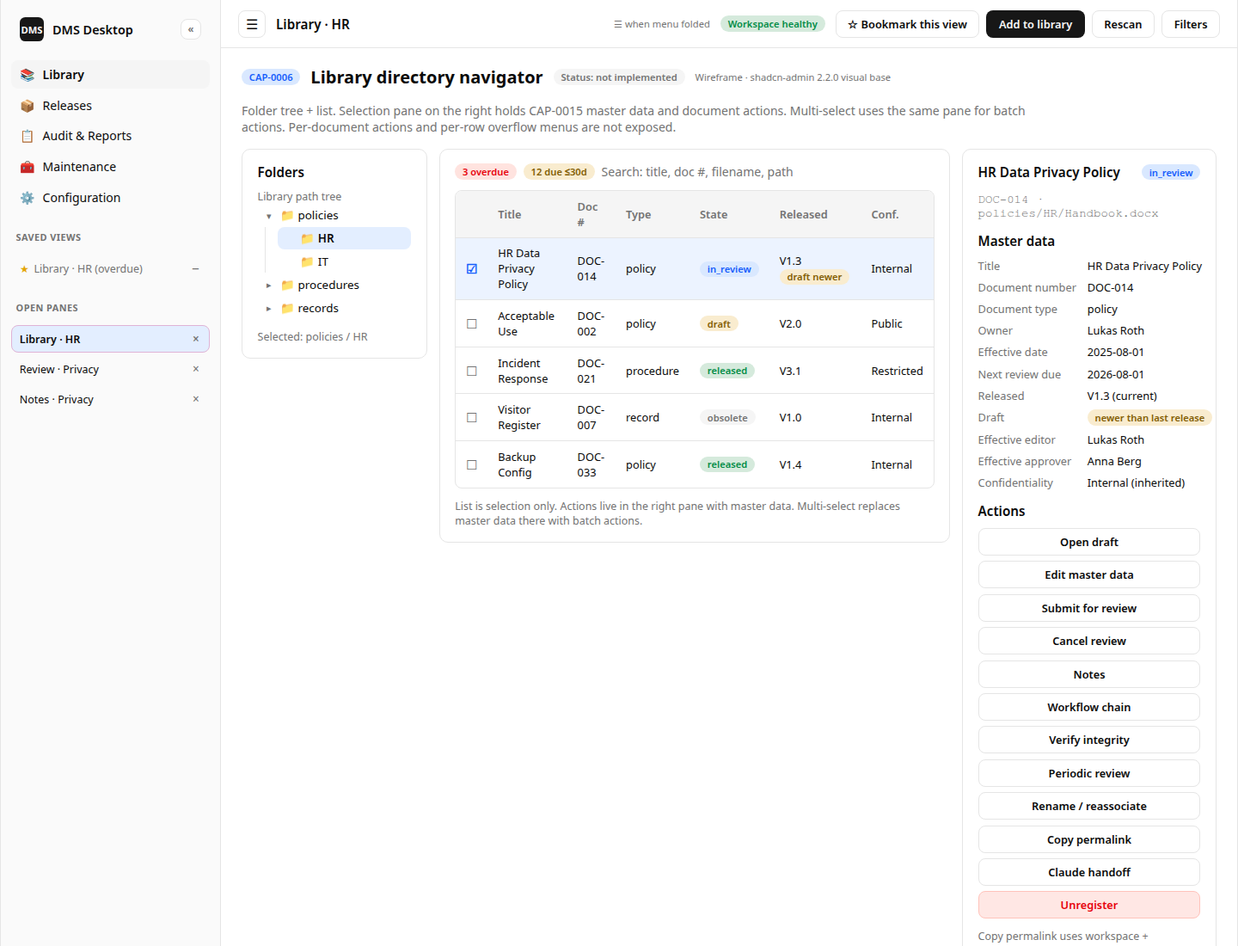
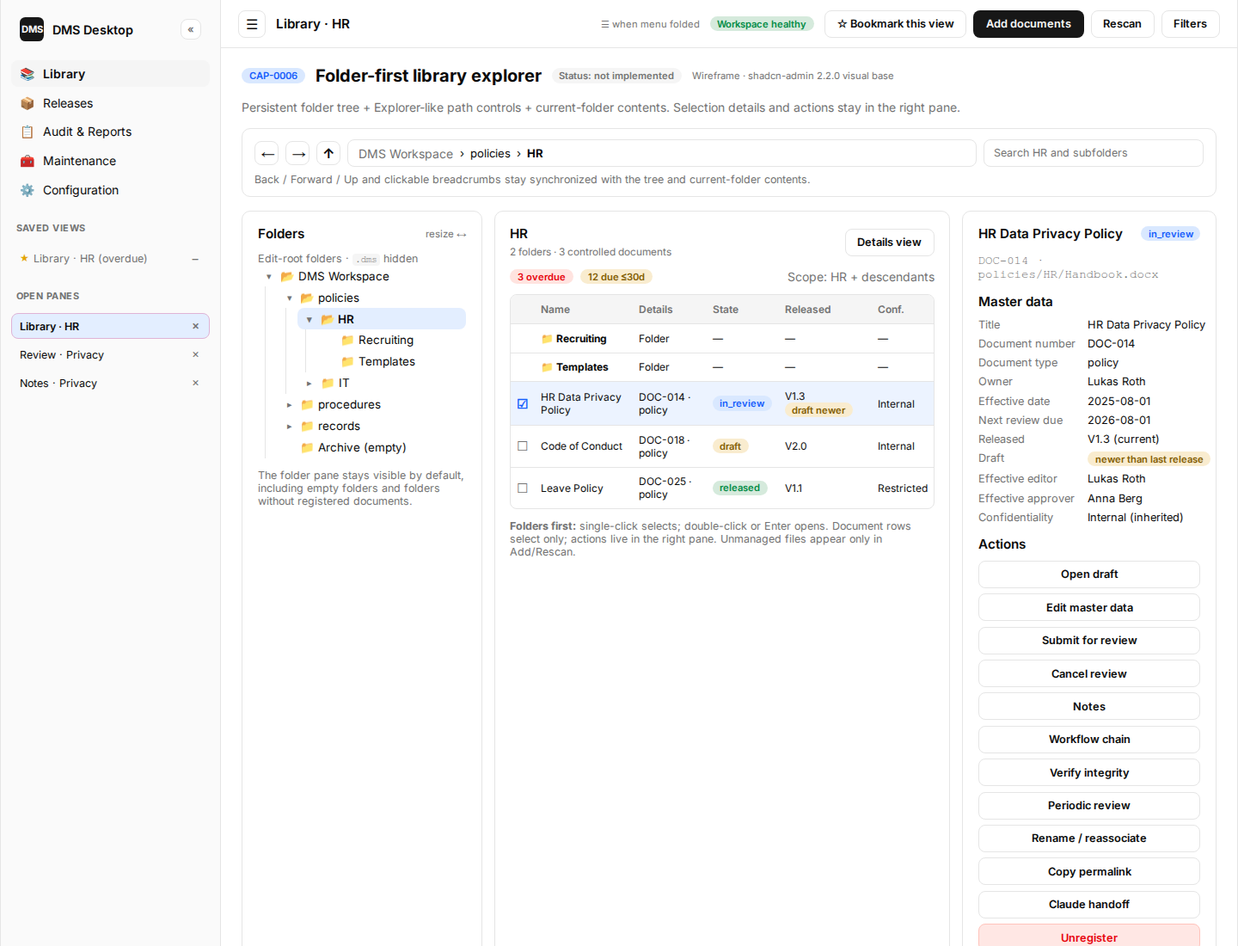
docs(product): make library navigation folder-first

diff --git a/docs/product/wireframes/html/CAP-0006-library-explorer.html b/docs/product/wireframes/html/CAP-0006-library-explorer.html
@@ -3,7 +3,7 @@
 <head>
 <meta charset="utf-8"/>
 <meta name="viewport" content="width=device-width, initial-scale=1"/>
-<title>CAP-0006 — Library directory navigator · DMS Desktop</title>
+<title>CAP-0006 — Folder-first library explorer · DMS Desktop</title>
 <link rel="preconnect" href="https://fonts.googleapis.com"/>
 <link rel="preconnect" href="https://fonts.gstatic.com" crossorigin/>
 <link href="https://fonts.googleapis.com/css2?family=Inter:wght@400;500;600;700&display=swap" rel="stylesheet"/>
@@ -208,101 +208,124 @@ tr:last-child td { border-bottom: 0; }
       <div class="grow"></div>
       <span class="ham-note">☰ when menu folded</span>
       <span class="badge ok">Workspace healthy</span>
-      <div class="header-actions"><button class="btn outline bookmark-btn" title="Bookmark this view" aria-pressed="false">☆ Bookmark this view</button><button class="btn">Add to library</button><button class="btn outline">Rescan</button><button class="btn outline">Filters</button></div>
+      <div class="header-actions"><button class="btn outline bookmark-btn" title="Bookmark this view" aria-pressed="false">☆ Bookmark this view</button><button class="btn">Add documents</button><button class="btn outline">Rescan</button><button class="btn outline">Filters</button></div>
     </header>
     <main class="content">
       <div class="cap-head">
         <span class="badge info">CAP-0006</span>
-        <h2>Library directory navigator</h2>
+        <h2>Folder-first library explorer</h2>
         <span class="badge muted">Status: not implemented</span>
         <span class="wire-meta">Wireframe · shadcn-admin 2.2.0 visual base</span>
       </div>
-      <p class="subtitle">Folder tree + list. Selection pane on the right holds CAP-0015 master data and document actions. Multi-select uses the same pane for batch actions. Per-document actions and per-row overflow menus are not exposed.</p>
+      <p class="subtitle">Persistent folder tree + Explorer-like path controls + current-folder contents. Selection details and actions stay in the right pane.</p>
       
-      <div class="grid-explorer-detail">
+      <style>
+        .app[data-cap="CAP-0006"] .list-card th,
+        .app[data-cap="CAP-0006"] .list-card td { padding: 0.55rem 0.45rem; font-size: 0.75rem; }
+      </style>
+      <section class="card" style="padding:0.75rem 0.9rem">
+        <div class="row gap-2">
+          <button class="icon-btn" title="Back">←</button>
+          <button class="icon-btn" title="Forward">→</button>
+          <button class="icon-btn" title="Up one folder">↑</button>
+          <div class="row" style="height:2rem;min-width:0;flex:1;border:1px solid var(--input);border-radius:calc(var(--radius) - 2px);padding:0 0.75rem;font-size:0.82rem;gap:0.45rem">
+            <span class="muted">DMS Workspace</span><span>›</span><span>policies</span><span>›</span><strong>HR</strong>
+          </div>
+          <div style="height:2rem;width:16rem;border:1px solid var(--input);border-radius:calc(var(--radius) - 2px);padding:0.42rem 0.7rem;font-size:0.78rem;color:var(--muted-foreground)">Search HR and subfolders</div>
+        </div>
+        <p class="hint" style="margin-top:0.45rem">Back / Forward / Up and clickable breadcrumbs stay synchronized with the tree and current-folder contents.</p>
+      </section>
+      <div class="grid-explorer-detail" style="grid-template-columns:17.5rem minmax(0,1fr) 18.5rem;align-items:stretch">
         <aside class="card tree">
-          <h3 class="card-title">Folders</h3>
-          <p class="hint" style="margin-top:0">Library path tree</p>
+          <div class="row between mb">
+            <h3 class="card-title" style="margin:0">Folders</h3>
+            <span class="muted" style="font-size:0.72rem">resize ↔</span>
+          </div>
+          <p class="hint" style="margin-top:0">Edit-root folders · <code>.dms</code> hidden</p>
           <ul class="tree-root">
             <li>
-              <div class="tree-node"><span class="tree-twisty">▾</span><span class="tree-label">📁 policies</span></div>
+              <div class="tree-node"><span class="tree-twisty">▾</span><span class="tree-label">📂 DMS Workspace</span></div>
               <ul>
                 <li>
-                  <div class="tree-node active"><span class="tree-twisty empty">▸</span><span class="tree-label">📁 HR</span></div>
+                  <div class="tree-node"><span class="tree-twisty">▾</span><span class="tree-label">📂 policies</span></div>
+                  <ul>
+                    <li>
+                      <div class="tree-node active"><span class="tree-twisty">▾</span><span class="tree-label">📂 HR</span></div>
+                      <ul>
+                        <li><div class="tree-node"><span class="tree-twisty empty">▸</span><span class="tree-label">📁 Recruiting</span></div></li>
+                        <li><div class="tree-node"><span class="tree-twisty empty">▸</span><span class="tree-label">📁 Templates</span></div></li>
+                      </ul>
+                    </li>
+                    <li>
+                      <div class="tree-node"><span class="tree-twisty">▸</span><span class="tree-label">📁 IT</span></div>
+                    </li>
+                  </ul>
                 </li>
                 <li>
-                  <div class="tree-node"><span class="tree-twisty empty">▸</span><span class="tree-label">📁 IT</span></div>
+                  <div class="tree-node"><span class="tree-twisty">▸</span><span class="tree-label">📁 procedures</span></div>
+                </li>
+                <li>
+                  <div class="tree-node"><span class="tree-twisty">▸</span><span class="tree-label">📁 records</span></div>
+                </li>
+                <li>
+                  <div class="tree-node"><span class="tree-twisty empty">▸</span><span class="tree-label">📁 Archive (empty)</span></div>
                 </li>
               </ul>
             </li>
-            <li>
-              <div class="tree-node"><span class="tree-twisty">▸</span><span class="tree-label">📁 procedures</span></div>
-            </li>
-            <li>
-              <div class="tree-node"><span class="tree-twisty">▸</span><span class="tree-label">📁 records</span></div>
-            </li>
           </ul>
-          <p class="hint">Selected: policies / HR</p>
+          <p class="hint">The folder pane stays visible by default, including empty folders and folders without registered documents.</p>
         </aside>
         <section class="card list-card">
-          <div class="row gap-2 mb">
+          <div class="row between mb">
+            <div>
+              <h3 class="card-title" style="margin:0">HR</h3>
+              <span class="muted" style="font-size:0.74rem">2 folders · 3 controlled documents</span>
+            </div>
+            <button class="btn outline">Details view</button>
+          </div>
+          <div class="row gap-2 mb" style="flex-wrap:wrap">
             <span class="badge danger">3 overdue</span>
             <span class="badge warn">12 due ≤30d</span>
-            <span class="muted grow">Search: title, doc #, filename, path</span>
+            <span class="muted grow" style="text-align:right">Scope: HR + descendants</span>
           </div>
           <div class="table-wrap"><table>
             <thead><tr>
-              <th></th><th>Title</th><th>Doc #</th><th>Type</th><th>State</th><th>Released</th><th>Conf.</th>
+              <th></th><th>Name</th><th>Details</th><th>State</th><th>Released</th><th>Conf.</th>
             </tr></thead>
             <tbody>
+              <tr>
+                <td></td><td><strong>📁 Recruiting</strong></td><td>Folder</td><td>—</td><td>—</td><td>—</td>
+              </tr>
+              <tr>
+                <td></td><td><strong>📁 Templates</strong></td><td>Folder</td><td>—</td><td>—</td><td>—</td>
+              </tr>
               <tr class="selected">
                 <td><span class="check on">☑</span></td>
                 <td>HR Data Privacy Policy</td>
-                <td>DOC-014</td>
-                <td>policy</td>
+                <td>DOC-014 · policy</td>
                 <td><span class="badge info">in_review</span></td>
                 <td>V1.3 <span class="badge warn">draft newer</span></td>
                 <td>Internal</td>
               </tr>
               <tr>
                 <td><span class="check">☐</span></td>
-                <td>Acceptable Use</td>
-                <td>DOC-002</td>
-                <td>policy</td>
+                <td>Code of Conduct</td>
+                <td>DOC-018 · policy</td>
                 <td><span class="badge warn">draft</span></td>
                 <td>V2.0</td>
-                <td>Public</td>
+                <td>Internal</td>
               </tr>
               <tr>
                 <td><span class="check">☐</span></td>
-                <td>Incident Response</td>
-                <td>DOC-021</td>
-                <td>procedure</td>
+                <td>Leave Policy</td>
+                <td>DOC-025 · policy</td>
                 <td><span class="badge ok">released</span></td>
-                <td>V3.1</td>
+                <td>V1.1</td>
                 <td>Restricted</td>
-              </tr>
-              <tr>
-                <td><span class="check">☐</span></td>
-                <td>Visitor Register</td>
-                <td>DOC-007</td>
-                <td>record</td>
-                <td><span class="badge muted">obsolete</span></td>
-                <td>V1.0</td>
-                <td>Internal</td>
-              </tr>
-              <tr>
-                <td><span class="check">☐</span></td>
-                <td>Backup Config</td>
-                <td>DOC-033</td>
-                <td>policy</td>
-                <td><span class="badge ok">released</span></td>
-                <td>V1.4</td>
-                <td>Internal</td>
               </tr>
             </tbody>
           </table></div>
-          <p class="hint">List is selection only. Actions live in the right pane with master data. Multi-select replaces master data there with batch actions.</p>
+          <p class="hint"><strong>Folders first:</strong> single-click selects; double-click or Enter opens. Document rows select only; actions live in the right pane. Unmanaged files appear only in Add/Rescan.</p>
         </section>
         <aside class="card detail-pane">
           <div class="row between mb">
@@ -337,7 +360,7 @@ tr:last-child td { border-bottom: 0; }
             <p class="muted" style="margin:0 0 0.5rem;font-size:0.85rem">When two or more rows are checked, the right pane switches to batch mode:</p>
             <ul class="list">
               <li>HR Data Privacy Policy (DOC-014)</li>
-              <li>Acceptable Use (DOC-002)</li>
+              <li>Code of Conduct (DOC-018)</li>
             </ul>
           </div>
           <div class="stack-btns">

diff --git a/docs/product/wireframes/index.html b/docs/product/wireframes/index.html
@@ -19,7 +19,7 @@ a{color:#2563eb}
 <tr><td>CAP-0003</td><td>Document notes</td><td><a href="./html/CAP-0003-document-notes.html">CAP-0003-document-notes.html</a></td><td><a href="./exports/CAP-0003-document-notes.png">CAP-0003-document-notes.png</a></td></tr>
 <tr><td>CAP-0004</td><td>Verify integrity</td><td><a href="./html/CAP-0004-release-integrity.html">CAP-0004-release-integrity.html</a></td><td><a href="./exports/CAP-0004-release-integrity.png">CAP-0004-release-integrity.png</a></td></tr>
 <tr><td>CAP-0005</td><td>Desktop shell overview</td><td><a href="./html/CAP-0005-desktop-shell.html">CAP-0005-desktop-shell.html</a></td><td><a href="./exports/CAP-0005-desktop-shell.png">CAP-0005-desktop-shell.png</a></td></tr>
-<tr><td>CAP-0006</td><td>Library directory navigator</td><td><a href="./html/CAP-0006-library-explorer.html">CAP-0006-library-explorer.html</a></td><td><a href="./exports/CAP-0006-library-explorer.png">CAP-0006-library-explorer.png</a></td></tr>
+<tr><td>CAP-0006</td><td>Folder-first library explorer</td><td><a href="./html/CAP-0006-library-explorer.html">CAP-0006-library-explorer.html</a></td><td><a href="./exports/CAP-0006-library-explorer.png">CAP-0006-library-explorer.png</a></td></tr>
 <tr><td>CAP-0007</td><td>Office → PDF export</td><td><a href="./html/CAP-0007-office-pdf-export.html">CAP-0007-office-pdf-export.html</a></td><td><a href="./exports/CAP-0007-office-pdf-export.png">CAP-0007-office-pdf-export.png</a></td></tr>
 <tr><td>CAP-0008</td><td>Confidentiality policies</td><td><a href="./html/CAP-0008-confidentiality-classification.html">CAP-0008-confidentiality-classification.html</a></td><td><a href="./exports/CAP-0008-confidentiality-classification.png">CAP-0008-confidentiality-classification.png</a></td></tr>
 <tr><td>CAP-0009</td><td>Open draft in Office</td><td><a href="./html/CAP-0009-release-editor.html">CAP-0009-release-editor.html</a></td><td><a href="./exports/CAP-0009-release-editor.png">CAP-0009-release-editor.png</a></td></tr>

diff --git a/docs/changes/active/CHG-0001-tauri-local-dms-bootstrap.md b/docs/changes/active/CHG-0001-tauri-local-dms-bootstrap.md
@@ -4,7 +4,7 @@
 | --- | --- |
 | ID | CHG-0001 |
 | Status | in-progress |
-| External request | Direct operator request: develop a https://tauri.app/ application primarily for Windows for document version control to comply with ISO 27001 requirements. Drafts are original Microsoft Office tools; final approved and released documents are PDFs. No database; operator maintains release and approval process. Document details stored in hidden local directories per folder (e.g. `.dms`). Git-based VCS not mandatory. User can make notes. Released PDFs are checksummed. Refinements: (1) file explorer of controlled library with add/remove; library members are versioned as `*_vMAJOR.MINOR.pdf` on release while Office draft remains editable; (2) persist edit root and publish root; reconstruct mirrored directory tree under publish root on release; (3) PDF export and file versioning are performed by the application using preinstalled Microsoft Office; (4) macOS support is required in addition to Windows; (5) approval notification email contains a URI that opens the installed app to the requested document; (6) responsible editor and approver are assignable at root, folder, subfolder, or individual-document level with inheritance; (7) the person who requested approval receives notification of the recorded approval outcome; (8) distinguish automatic, current-session activity panes from explicit operator bookmarks and make their placement, creation, persistence, restoration, and removal clear in the CAPs and wireframes. |
+| External request | Direct operator request: develop a https://tauri.app/ application primarily for Windows for document version control to comply with ISO 27001 requirements. Drafts are original Microsoft Office tools; final approved and released documents are PDFs. No database; operator maintains release and approval process. Document details stored in hidden local directories per folder (e.g. `.dms`). Git-based VCS not mandatory. User can make notes. Released PDFs are checksummed. Refinements: (1) file explorer of controlled library with add/remove; library members are versioned as `*_vMAJOR.MINOR.pdf` on release while Office draft remains editable; (2) persist edit root and publish root; reconstruct mirrored directory tree under publish root on release; (3) PDF export and file versioning are performed by the application using preinstalled Microsoft Office; (4) macOS support is required in addition to Windows; (5) approval notification email contains a URI that opens the installed app to the requested document; (6) responsible editor and approver are assignable at root, folder, subfolder, or individual-document level with inheritance; (7) the person who requested approval receives notification of the recorded approval outcome; (8) distinguish automatic, current-session activity panes from explicit operator bookmarks and make their placement, creation, persistence, restoration, and removal clear in the CAPs and wireframes; (9) "working with folders would be the more dominent part of using DMS Desktop so the folder structure should become more present in the ui. also navigating through the folders in the library view should be more windows explorer like for convinience of the user". |
 | Affected CAPs | CAP-0001 … CAP-0020 |
 | Decision records | ADR-0001 … ADR-0020 in `docs/design-decisions.md` |
 
@@ -17,8 +17,10 @@ macOS** that:
 - Provides a foldable left menu (hamburger when collapsed), session-only
   open-activity panes/tabs as quicklinks in the left chrome, and explicit
   per-user saved views
-- Shows a library directory navigator (folder tree, metadata list, selection
-  pane with CAP-0015 master data and document/batch actions); add/remove
+- Shows a folder-dominant, Windows Explorer-like Library workspace with a
+  persistent edit-root-relative tree, Back/Forward/Up + clickable breadcrumbs,
+  current-folder child folders and controlled-document metadata, and a right
+  selection pane with CAP-0015 master data and document/batch actions; add/remove
   documents under control
 - Runs operator-driven approval and release
 - Sends approver review-request email and requester decision-outcome email
@@ -67,10 +69,10 @@ macOS** that:
 
 | # | Phase | Status | Verification gate |
 | --- | --- | --- | --- |
-| 0 | Product records and architecture bootstrap | done (docs tree; release version policy, approval, notification, confidentiality, workflow-role routing, maintenance, periodic review, optional Claude handoff, foldable shell chrome, session activity tabs, saved views, stable document permalinks, Win+macOS recorded) | CAP/CHG/ADR files exist; indexes list CAP-0001…0020; no CAP claims implemented runtime |
+| 0 | Product records and architecture bootstrap | done (docs tree; release version policy, approval, notification, confidentiality, workflow-role routing, maintenance, periodic review, optional Claude handoff, foldable shell chrome, session activity tabs, saved views, folder-dominant Explorer-like Library navigation, stable document permalinks, Win+macOS recorded) | CAP/CHG/ADR files exist; indexes list CAP-0001…0020; no CAP claims implemented runtime |
 | 1 | Tauri 2 app skeleton (Windows + macOS) + DOX for source tree | pending | Dev app launches on Windows and macOS; README run steps for both; foldable left menu + hamburger + session-only open-activity tabs with visible current state; explicit saved-view bookmark persists in OS user config and restores as a fresh activity |
 | 2 | `.dms` store + dual-root open/configure + confidentiality and workflow-role policies | pending | Tests: persist/reload edit+publish roots, stable workspace ID, and schema version; safe older-schema migration/newer-schema read-only; create/replace a direct folder policy, remove a non-root policy, refuse root-policy removal, and recompute nearest inherited class; inherit each workflow role independently; init `.dms` only on confirm |
-| 3 | Library directory navigator + add/unregister/reassociate + selection pane | pending | Tests: add under edit root; reject outside path; unregister preserves history; ambiguous move is never auto-linked; search/filter controlled set; single selection shows CAP-0015 master data + document actions in the right pane with matching title; multi-select shows only multi-applicable actions in the same pane; a saved library view restores folder/filter/sort and a single-document stable ID but never batch selection; copy permalink uses workspace+document IDs only and never changes saved views; selection opens/focuses an activity tab |
+| 3 | Folder-first Library explorer + add/unregister/reassociate + selection pane | pending | Tests: folder pane is visible by default and includes empty edit-root folders while hiding `.dms`; Back/Forward/Up, breadcrumb, tree, and immediate-child contents stay synchronized; folder navigation reuses one Library activity; add under edit root; reject outside path; unregister preserves history; ambiguous move is never auto-linked; current-folder and Entire-library search/filter scopes return controlled documents with paths; single selection shows CAP-0015 master data + document actions in the right pane with matching title; multi-select shows only multi-applicable actions in the same pane; a saved library view restores folder/filter/sort and a single-document stable ID but never batch selection; copy permalink uses workspace+document IDs only and never changes saved views |
 | 4 | Lifecycle + approval notification + version assign + tree mirror | pending | Tests: request requires summary, requester, change class, effective approver, and transport success; CAP-0020 deep link resolves only an accessible registered workspace to the intended review request and still resolves after rename/version bump; each decision notifies the snapshotted requester, with failure retryable and non-reverting; approver-policy change invalidates an open review; cosmetic→minor, substantive/uncertain→major; comments/event hash persist; metadata change invalidates approval; first version V1.0; refuse overwrite |
 | 5 | Office-driven PDF export on release (Win + macOS adapters) | pending | Tests/integration: export via installed Office (or test double) to the versioned, classified path on each OS; snapshot the effective type ID into the filename; failure rolls back version success |
 | 6 | Notes on documents | pending | Tests: note CRUD persistence across restart |

diff --git a/docs/product/capabilities/CAP-0006-library-explorer.md b/docs/product/capabilities/CAP-0006-library-explorer.md
@@ -1,4 +1,4 @@
-# CAP-0006 — Controlled library directory navigator
+# CAP-0006 — Folder-first controlled library explorer
 
 | Field | Value |
 | --- | --- |
@@ -10,14 +10,30 @@
 
 When implemented, the following must hold:
 
-1. The primary library surface is a **directory navigator** over documents
-   currently under DMS control (the library), not an unmanaged dump of the
-   entire disk and not a standalone multi-page “file manager app.”
-2. Navigation is folder-first: a **relative folder tree** (nested expand/collapse
-   of library paths under the edit root — not a flat path list) plus a document
-   list for the current folder and active filters. Breadcrumbs or equivalent
-   show the current relative path. Navigating alone does not save this state;
-   the operator must use CAP-0005's explicit bookmark control.
+1. The primary library surface is a **folder-dominant workspace** over the
+   accessible directory structure below the edit root and the documents under
+   DMS control. It is not an unmanaged dump of the entire disk and not a
+   standalone multi-page file-manager application.
+2. Folder navigation uses familiar **Windows File Explorer-like conventions**
+   without copying the OS file manager wholesale:
+   - The default Library layout has three full-height panes: a persistent,
+     resizable **folder tree** on the left, current-folder contents in the
+     centre, and the selection/details pane on the right. The folder tree is a
+     primary navigation surface, not a compact filter card beside a
+     document-dominant table.
+   - The tree shows accessible folders below the edit root, including empty
+     folders and folders without registered documents. `<edit-root>/.dms` is
+     never shown. Unmanaged files remain hidden outside Add/Rescan flows.
+   - A current-folder toolbar exposes **Back**, **Forward**, and **Up** controls
+     plus a clickable breadcrumb rooted at the workspace/edit-root display
+     name. Up is unavailable at the root. Tree selection, breadcrumb, current
+     folder heading, and centre contents stay synchronized.
+   - The centre pane lists immediate child folders before controlled documents
+     directly in the current folder. Single-click selects a folder row;
+     double-click or Enter opens it. Selecting a tree node or breadcrumb segment
+     opens that folder directly.
+   - Back/Forward history is session-only. Navigating alone does not create a
+     saved view; the operator must use CAP-0005's explicit bookmark control.
 3. Operator can **add** a Microsoft Office file that lives under the edit root
    into the library. Add fails if the path is outside the edit root or already
    registered.
@@ -26,13 +42,13 @@ When implemented, the following must hold:
    master data, notes, workflow/release history, and checksums in read-only
    history; it never deletes the Office file or a published PDF. Re-registering
    that record associates a confirmed in-root draft path with the same ID.
-5. The list surfaces enough **row metadata** to scan the controlled set without
-   leaving the navigator: lifecycle state, latest released version label, title,
-   document number (when set), document type, owner, effective confidentiality,
-   next review due with overdue highlight, and a **draft newer than last
-   release** indicator when known (CAP-0015). The list is for navigation and
-   selection only — it does not host per-row action menus (no per-row
-   hamburger / overflow menu).
+5. Controlled-document rows surface enough **metadata** to scan the current
+   folder without leaving the explorer: lifecycle state, latest released
+   version label, title, document number (when set), document type, owner,
+   effective confidentiality, next review due with overdue highlight, and a
+   **draft newer than last release** indicator when known (CAP-0015). Document
+   rows are for selection only — they do not host per-row action menus (no
+   per-row hamburger / overflow menu). Folder rows navigate as defined above.
 6. **Selecting exactly one document** keeps the operator on the same page and
    shows an **on-page selection pane** (right column) that combines:
    - the selected document’s **title** (same string as the list row title),
@@ -72,13 +88,15 @@ When implemented, the following must hold:
    not exposed as batch actions — "Send reminder" is a per-document periodic
    reminder action (CAP-0017) and is also not a batch action. Actions refuse
    closed with a clear reason when preconditions fail.
-9. Opening or focusing a document-scoped surface (selection, review, notes, or
-   equivalent) creates or focuses a CAP-0005 **open-activity tab** labeled from
-   the document title (falling back to document number or a short ID prefix).
-   The same document may have multiple tabs open (for example Library -
-   selection, Review - decision, Notes) — each tab names what surface is
-   focused, not a different document. Closing that tab clears the selection
-   activity without unregistering the document.
+9. Entering the Library creates or focuses one CAP-0005 **Library activity tab**.
+   Folder navigation updates that tab's current path and label in place; it does
+   not create one tab per visited folder. Opening or focusing a document-scoped
+   surface (selection, review, notes, or equivalent) creates or focuses the
+   matching activity labeled from the document title (falling back to document
+   number or a short ID prefix). The same document may have multiple tabs open
+   (for example Library - selection, Review - decision, Notes) — each tab names
+   the focused surface. Closing a document-scoped tab clears that surface
+   without unregistering the document.
 10. CAP-0005's `Bookmark this view` control saves the current library folder,
     filters, and sort order; when exactly one document is selected it also uses
     that document's stable ID as the target. It does not retain a multi-select
@@ -92,10 +110,13 @@ When implemented, the following must hold:
     Missing documents remain visible with a `missing` marker until resolved
     (CAP-0013).
 13. Explorer filters support lifecycle state, confidentiality type, document
-    type, owner, and overdue-only.
-14. Explorer search matches title, document number, draft file name, and
-    relative path case-insensitively. Results can be sorted by title, document
-    number, lifecycle state, latest release, or next-review-due date.
+    type, owner, and overdue-only. They filter controlled-document rows within
+    the active folder/search scope and never hide the folder tree.
+14. Explorer search starts at the current folder and includes its descendants,
+    with an explicit **Entire library** scope. It matches title, document number,
+    draft file name, and relative path case-insensitively. Results retain their
+    relative path and can be sorted by title, document number, lifecycle state,
+    latest release, or next-review-due date.
 15. A CAP-0020 document permalink that resolves successfully lands here: the
     library navigator selects that document (revealing its folder as needed)
     and shows the selection pane. Resolution never keys off file name or
@@ -105,6 +126,7 @@ When implemented, the following must hold:
 
 - Full OS file manager replacement (copy/move/rename of arbitrary non-library
   files)
+- Pixel-for-pixel Windows File Explorer imitation or arbitrary path entry
 - Watching the entire edit root and auto-adding every new Office file without
   operator action
 - Per-row hamburger / overflow menus in the list

diff --git a/AGENTS.md b/AGENTS.md
@@ -93,7 +93,7 @@ Project-wide style and workflow preferences also live in user memory; this secti
 ## Architectural decisions
 
 - **Agent harness protected by tirith.sh.** Reading passwords or access tokens is prohibited. Extract variables from `.env` / config files without relaying their values; use environment variables by importing them for Bash execution. `***` in output is a tirith redaction marker, not a literal value — never "fix" it to a variable ref.
-- **Product shape.** Tauri 2 desktop app for Windows and macOS; operator-maintained document control; dual roots (edit + publish) with mirrored relative trees; foldable left menu (hamburger when collapsed) with session-only open-activity panes/tabs plus per-user saved views; library directory navigator (metadata list, selection pane with master data and document/batch actions) with add/remove; stable document permalinks (`workspace ID` + `document ID`); Office drafts; app-driven versioning + PDF export via preinstalled Microsoft Office to checksummed `*_VMAJOR.MINOR.pdf`; cosmetic changes increment minor and substantive changes increment major; `<edit-root>/.dms` metadata with no application database. Detail: `docs/architecture.md` and `docs/design-decisions.md`.
+- **Product shape.** Tauri 2 desktop app for Windows and macOS; operator-maintained document control; dual roots (edit + publish) with mirrored relative trees; foldable left menu (hamburger when collapsed) with session-only open-activity panes/tabs plus per-user saved views; folder-dominant, Windows Explorer-like library workspace with a persistent relative tree, Back/Forward/Up + breadcrumbs, current-folder contents, and a selection pane for master data and document/batch actions; stable document permalinks (`workspace ID` + `document ID`); Office drafts; app-driven versioning + PDF export via preinstalled Microsoft Office to checksummed `*_VMAJOR.MINOR.pdf`; cosmetic changes increment minor and substantive changes increment major; `<edit-root>/.dms` metadata with no application database. Detail: `docs/architecture.md` and `docs/design-decisions.md`.
 - **Application records.** CAP files under `docs/product/` are behaviour contracts; CHG files under `docs/changes/` are progress authority. Code and tests prove behaviour.
 
 ## Codebase Knowledge Graph (codebase-memory-mcp)

diff --git a/docs/architecture.md b/docs/architecture.md
@@ -13,7 +13,7 @@ under an **edit root**; released artifacts are versioned PDFs under a
 | Layer | Responsibility |
 | --- | --- |
 | Tauri 2 shell (Rust) | Windowing, filesystem access, checksums, path mapping, Office export orchestration, OS integration, registered local-app URI handler (document permalinks) |
-| Frontend (web UI in WebView) | Foldable left menu with hamburger when collapsed; open-activity panes/tabs as quicklinks; library directory navigator (folder tree, list metadata, selection pane with CAP-0015 master data and single/batch actions), add/remove control, lifecycle, change commentary, approval, release/verify, confidentiality and workflow-role policies, audit export, publish history, copy/resolve document permalinks |
+| Frontend (web UI in WebView) | Foldable left menu with hamburger when collapsed; open-activity panes/tabs as quicklinks; folder-dominant Library workspace with a persistent edit-root-relative tree, Windows Explorer-like Back/Forward/Up and breadcrumb navigation, current-folder child folders + controlled-document metadata, and a selection pane with CAP-0015 master data and single/batch actions; add/remove control, lifecycle, change commentary, approval, release/verify, confidentiality and workflow-role policies, audit export, publish history, copy/resolve document permalinks |
 | Microsoft Office (host-installed) | PDF export engine invoked by the app on release (Word/Excel/PowerPoint as applicable) |
 | Claude Desktop (optional host app) | Operator-mediated, consented handoff for advisory change classification and changelog wording; not a callable local model or lifecycle authority |
 | `<edit-root>/.dms/` | Roots config, library registry, workflow-person roster + SMTP settings (no secrets), folder confidentiality and workflow-role policies, notes, approval/release history, evidence hashes, checksums, advisory lock |

diff --git a/docs/product/README.md b/docs/product/README.md
@@ -22,7 +22,7 @@ linked tests is a coverage gap, not implemented proof.
 | [CAP-0003](capabilities/CAP-0003-document-notes.md) | Document notes | not implemented |
 | [CAP-0004](capabilities/CAP-0004-release-integrity.md) | Released PDF checksum integrity | not implemented |
 | [CAP-0005](capabilities/CAP-0005-desktop-shell.md) | Tauri desktop shell (Windows and macOS) | not implemented |
-| [CAP-0006](capabilities/CAP-0006-library-explorer.md) | Controlled library directory navigator | not implemented |
+| [CAP-0006](capabilities/CAP-0006-library-explorer.md) | Folder-first controlled library explorer | not implemented |
 | [CAP-0007](capabilities/CAP-0007-office-pdf-export.md) | Application-driven Office → PDF export | not implemented |
 | [CAP-0008](capabilities/CAP-0008-confidentiality-classification.md) | Inherited document confidentiality classification | not implemented |
 | [CAP-0009](capabilities/CAP-0009-release-editor.md) | Release editor (host Office) | not implemented |

diff --git a/docs/product/AGENTS.md b/docs/product/AGENTS.md
@@ -23,6 +23,9 @@ Own falsifiable capability contracts (`CAP-*.md`) and the product index.
 
 - Material outcome change → edit CAP + proving tests + active CHG together.
 - Do not churn CAPs for pure refactors with no user-visible change.
+- Keep the Library surface and its wireframe folder-dominant. Follow CAP-0006's
+  familiar Windows Explorer-like navigation model rather than reducing folders
+  to a compact filter beside a document-first table.
 
 ## Verification
 
